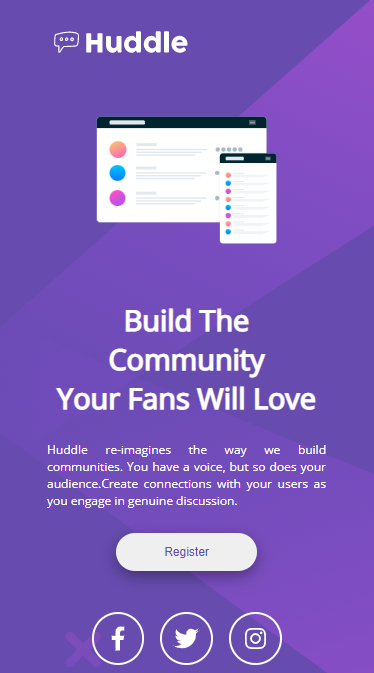
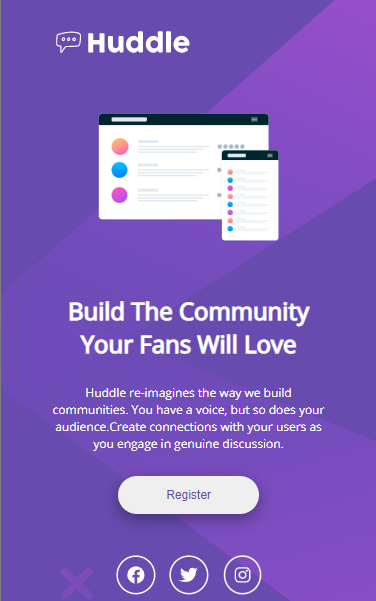
alterei o tamanho da fonte base, diminuí os ícones de redes sociais, coloquei uma largura máxima para o conteúdo

diff --git a/src/css/styles.css b/src/css/styles.css
@@ -1,12 +1,12 @@
 html {
-    font-size: 32px;
+    font-size: 16px;
     font-family: 'Open Sans', sans-serif;
     font-weight: 400;
     color: #ffffff;
 }
 
 body {
-    padding: 1rem 2rem;
+    padding: 2rem 4rem;
     min-height: 100vh;
     background-color: var(--main-color);
     background-image: url(../images/bg-desktop.svg);
@@ -15,6 +15,7 @@ body {
 }
 
 main {
+    max-width: 90rem;
     display: grid;
     grid-template-areas: "header ."
                          "layout-img layout-text"
@@ -27,11 +28,11 @@ header {
 }
 
 header .logo {
-    width: 6rem;
+    width: 12rem;
 }
 
 .layout-img-area {
-    padding: 2rem;
+    padding: 4rem;
     grid-area: layout-img;
 }
 
@@ -41,27 +42,27 @@ header .logo {
 
 .layout-text-area {
     grid-area: layout-text;
-    padding-top: 3rem;
+    padding-top: 6rem;
 }
 
 .layout-text-area .main-text {
-    font-size: 1.2rem;
+    font-size: 2.4rem;
     text-transform: capitalize;
-    margin-bottom: 1rem;
+    margin-bottom: 2rem;
 }
 
 .layout-text-area .text {
     text-align: justify;
-    font-size: 0.5rem;
+    font-size: 1rem;
 }
 
 .layout-text-area .register-button {
-    font-size: 0.5rem;
-    margin-top: 1rem;
+    font-size: 1rem;
+    margin-top: 2rem;
     color: var(--main-color);
-    padding: 0.5rem 2rem;
+    padding: 1rem 4rem;
     border: 0;
-    border-radius: 2rem;
+    border-radius: 4rem;
     box-shadow: rgba(0, 0, 0, 0.35) 0px 5px 15px;
     cursor: pointer;
 }
@@ -78,9 +79,8 @@ footer {
 }
 
 footer a > svg {
-    width: 1rem;
-    height: 1rem;
-    margin: 0.2rem;
+    transform: scale(1.5); 
+    margin: 1rem;
     border-radius: 50%;
     border: solid 0.1rem white;
     padding: 0.5rem;
@@ -92,17 +92,15 @@ footer a > svg:hover {
     transition: 0.5s ease-in-out;
 }
 
-
-
 @media screen and (max-width: 1250px) {
     html {
-        font-size: 28px;
+        font-size: 14px;
     }
 }
 
 @media screen and (max-width: 1050px) {
     html {
-        font-size: 24px;
+        font-size: 12px;
     }
 }
 
@@ -112,12 +110,18 @@ footer a > svg:hover {
         flex-direction: column;
     }
 
-    .layout-text-area, footer {
+    .layout-text-area, .layout-text-area .text, footer {
         text-align: center;
         padding: 0;
     }
 
     footer {
-        margin-top: 1.5rem;
+        margin-top: 3rem;
+    }
+}
+
+@media screen and (max-width: 400px) {
+    .layout-text-area .main-text {
+        font-size: 2rem;
     }
 }

diff --git a/index.html b/index.html
@@ -43,7 +43,7 @@
 
         <footer>
             <a href="#">
-                <i class="fa-brands fa-facebook-f"></i>
+                <i class="fa-brands fa-facebook"></i>
             </a>
 
             <a href="#">
